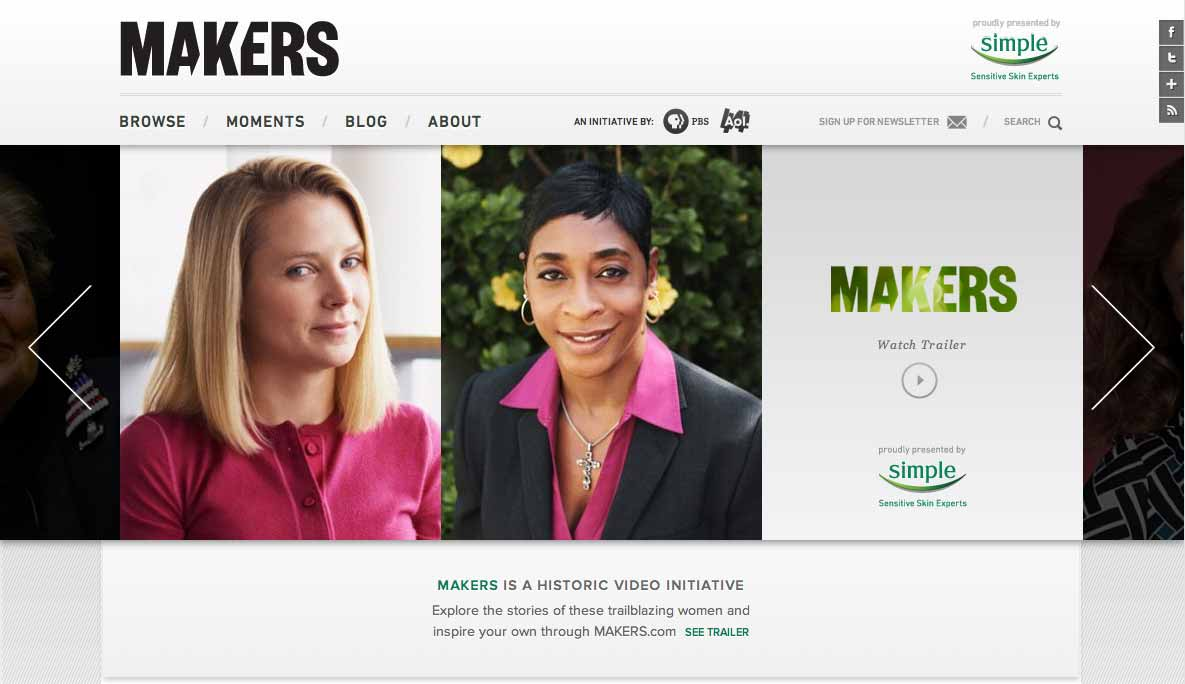
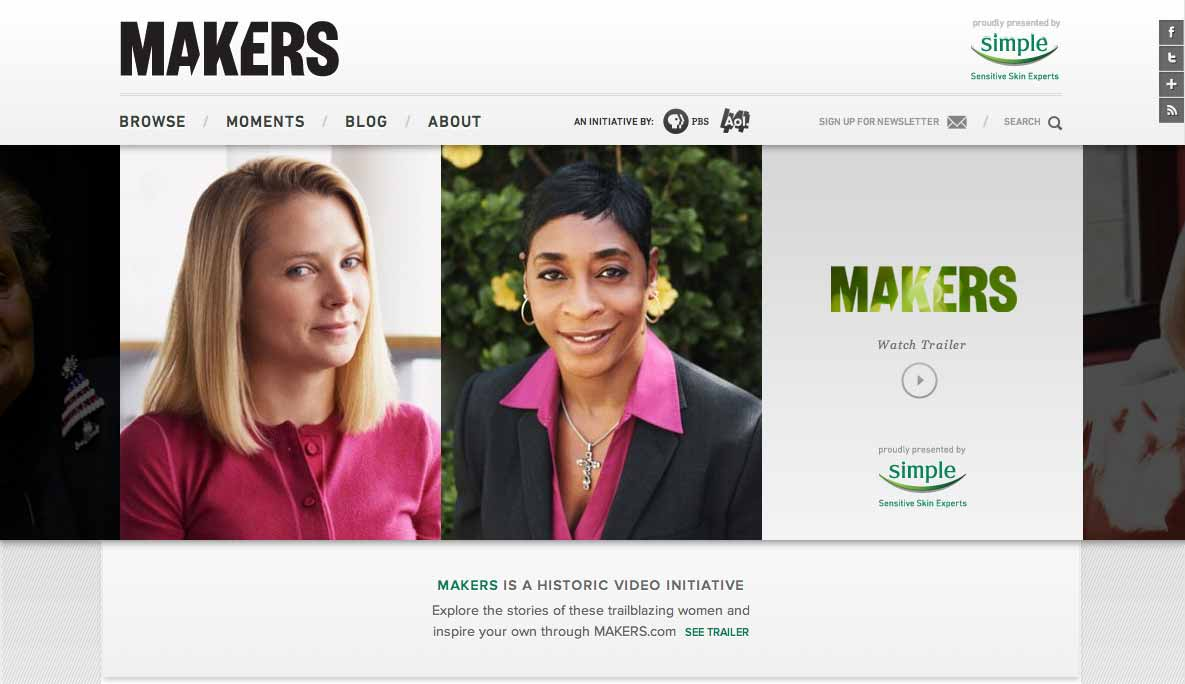
cleanup

diff --git a/website/templates/work/makers.html b/website/templates/work/makers.html
@@ -6,27 +6,20 @@
 {% set project_url = "http://www.makers.com" %}
 {% set project_year ="2012" %}
 
-{% block project_content %}
-<div class="proj_images">
-    <div class="proj_images_mask">
-        <div class="ss__cont">
-            <img src="/static/img/work/makers/1.jpg" class="ss__slide ss__slide1" alt="">
-            <img src="/static/img/work/makers/2.jpg" class="ss__slide ss__slide2" alt="">
-            <img src="/static/img/work/makers/3.jpg" class="ss__slide ss__slide3" alt="">
-        </div>
-        <a class="ss__prev"><span class="icn"></span></a>
-        <a class="ss__next"><span class="icn"></span></a>
-    </div>
-    <div class="ss__counter-cont">
-        <div class="ss__counter"></div>
-    </div>
-</div>
+{% block project_slideshow %}
+    <img src="/static/img/work/makers/1.jpg" class="ss__slide ss__slide1" alt="Masthead">
+    <img src="/static/img/work/makers/2.jpg" class="ss__slide ss__slide2" alt="Full Page">
+    <img src="/static/img/work/makers/3.jpg" class="ss__slide ss__slide3" alt="Profile">
+{% endblock %}
 
+{% block project_content %}
 <p>The MAKERS project is a historic video initiative between PBS and AOL featuring exclusive access to trailblazing women such as Hillary Clinton, Katie Couric, Marissa Mayer, Sandra Day O'Conner, Condoleezza Rice, Sheryl Sandberg, Gloria Steinem, Martha Stwewart and Barbara Walters.</p>
 
 <p><a href="http://www.MAKERS.com">MAKERS.com</a> uses an adaptive and fluid layout to assure that the site looks good on any device and at any screen resolution. Built to take advantage in the latest that web browsers have to offer, text, images and design elements are dynamically scaled on the fly for optimum readability.</p>
 
 <p>Mathematic was hired by <a href="http://www.ginlanemedia.com" target="_blank">Gin Lane Media</a> for front-end development including the implementation of a responsive layout. Gin Lane oversaw design, creative direction and project management. Back-end development was provided by <a href="http://www.asheavenue.com" target="_blank">Ashe Avenue</a> in tandem with Gin Lane.</p>
+
+
 
 <p>Tooling used:</p>
 
@@ -38,4 +31,11 @@
 <li>Our own responsive layout driven plugins for common UX patterns such as <a href="http://github.com/mathematic/pagination.js">pagination</a>, <a href="http://github.com/mathematic/carousel.js">carousel</a> and <a href="http://github.com/mathematic/windowResize.js">resizing events</a>.</li>
 </ul>
 
+{% endblock %}
+
+{% block project_quote %}
+<blockquote>
+    Ryan and Mathematic were extremely professional, informative and solution orientated from start through launch every day on call. The project was extremely complex with many moving parts and technical components. Their experience, insight and attention to detail helped bring to life not only a functional and stable digital video platform, but one that is beautiful and is receiving tremendous feedback and engagement on.<br>
+    <span class="byline">&mdash; Emmett Shine, President, Gin Lane Media</span>
+</blockquote>
 {% endblock %}

diff --git a/website/templates/work/base.html b/website/templates/work/base.html
@@ -28,6 +28,29 @@
             {% endif %}
         </div>
         <div class="work-ind">
+            <div class="proj_images">
+                <div class="proj_images_mask">
+                    <div class="ss__cont">
+                        {% block project_slideshow %}
+
+                        {% endblock %}
+                    </div>
+                    <a class="ss__prev"><span class="icn"></span></a>
+                    <a class="ss__next"><span class="icn"></span></a>
+                </div>
+                <div class="ss__counter-cont">
+                    <div class="ss__counter"></div>
+                </div>
+            </div>
+        </div>
+    </div>
+    <div class="group">
+        <div class="info">
+            {% block project_quote %}
+            &nbsp;
+            {% endblock %}
+        </div>
+        <div class="work-ind">
             {% block project_content %}
 
             {% endblock %}

diff --git a/website/templates/work/nfei.html b/website/templates/work/nfei.html
@@ -6,6 +6,11 @@
 {% set project_url = "http://northforked.org" %}
 {% set project_year ="2011" %}
 
+{% block project_slideshow %}
+    <img src="/static/img/work/nfei/1.jpg" class="ss__slide ss__slide1" alt="Homepage">
+    <img src="/static/img/work/nfei/2.jpg" class="ss__slide ss__slide2" alt="Contact Page">
+{% endblock %}
+
 {% block project_content %}
 <p>The North Fork Education Initiative (NFEI) is a new nonprofit on the North Fork of Long Island whose mission is to create educational programs and opportunities with a focus on arts, environment and community.</p>
 

diff --git a/website/templates/work/galleray.html b/website/templates/work/galleray.html
@@ -6,6 +6,10 @@
 {% set project_url = "http://galleray.com" %}
 {% set project_year ="2011" %}
 
+{% block project_slideshow %}
+    <img src="/static/img/work/galleray/1.jpg" class="ss__slide ss__slide1" alt="Sign-in">
+{% endblock %}
+
 {% block project_content %}
 
 <p>Mathematic was hired by <a href="http://www.3atmospheres.com">3atmospheres</a> for front-end development and later in the project, back-end development. We worked with 3atmospheres for back-end devenlopment and project management and <a href="http://ginlanemedia.com">Gin Lane Media</a> for design.</p>

diff --git a/website/static/css-src/base.scss b/website/static/css-src/base.scss
@@ -1203,6 +1203,9 @@ footer {
             margin-bottom: 0.4em;
         }
         .prev_next {
+            position: absolute;
+            top: 20px;
+            right: 65px;
             text-align: right;
         }
         .info {
